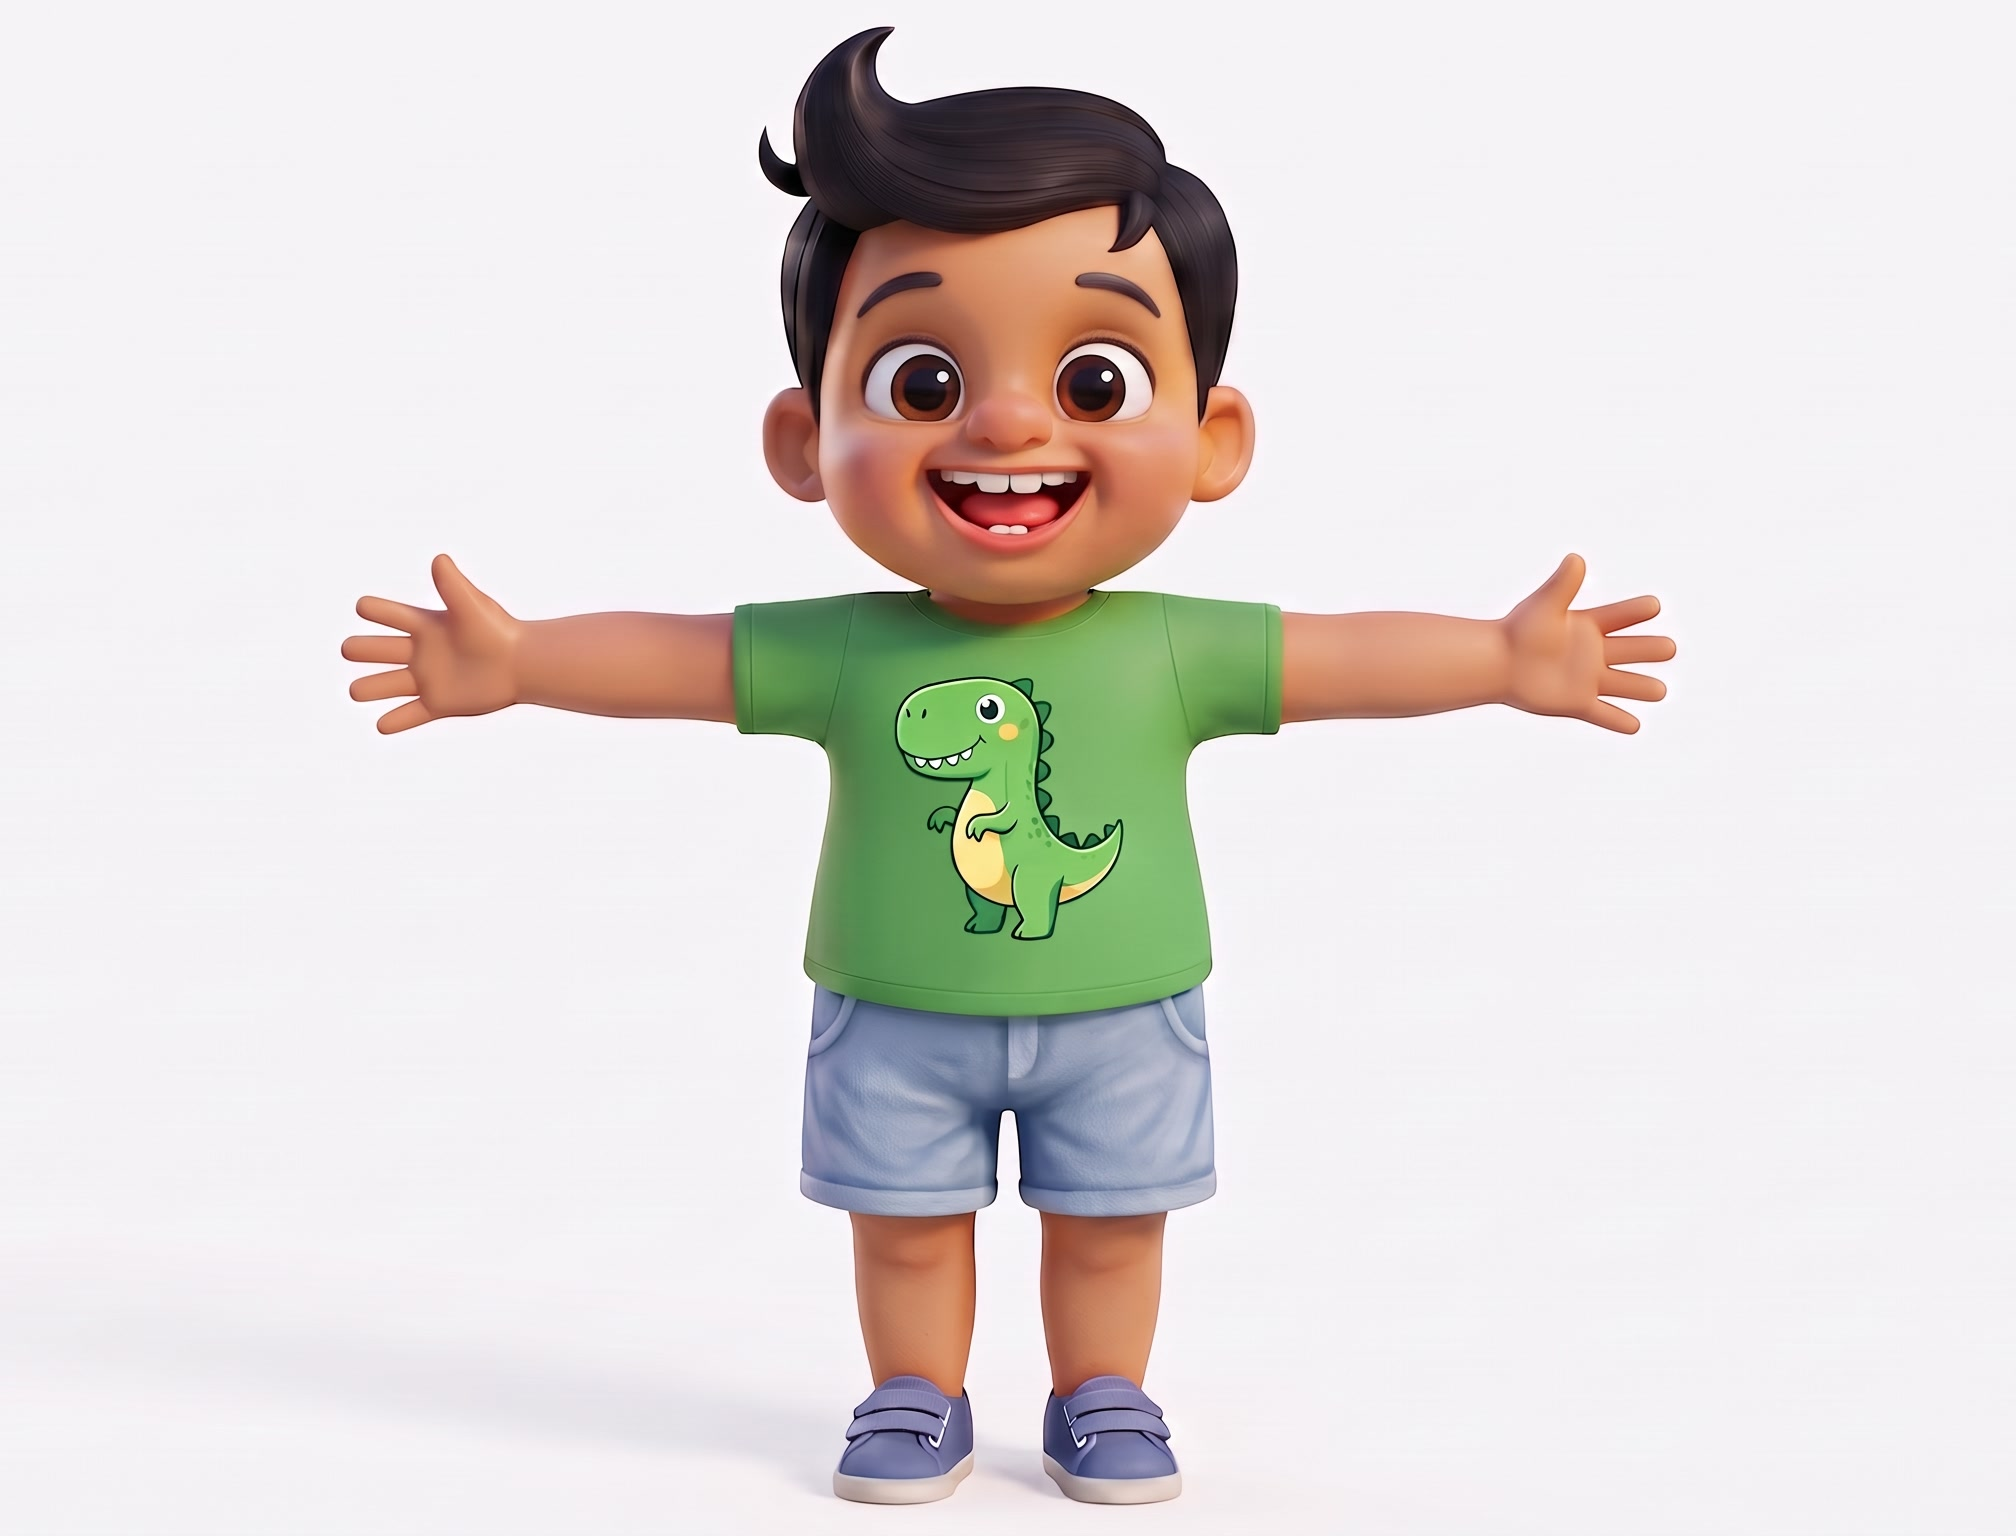
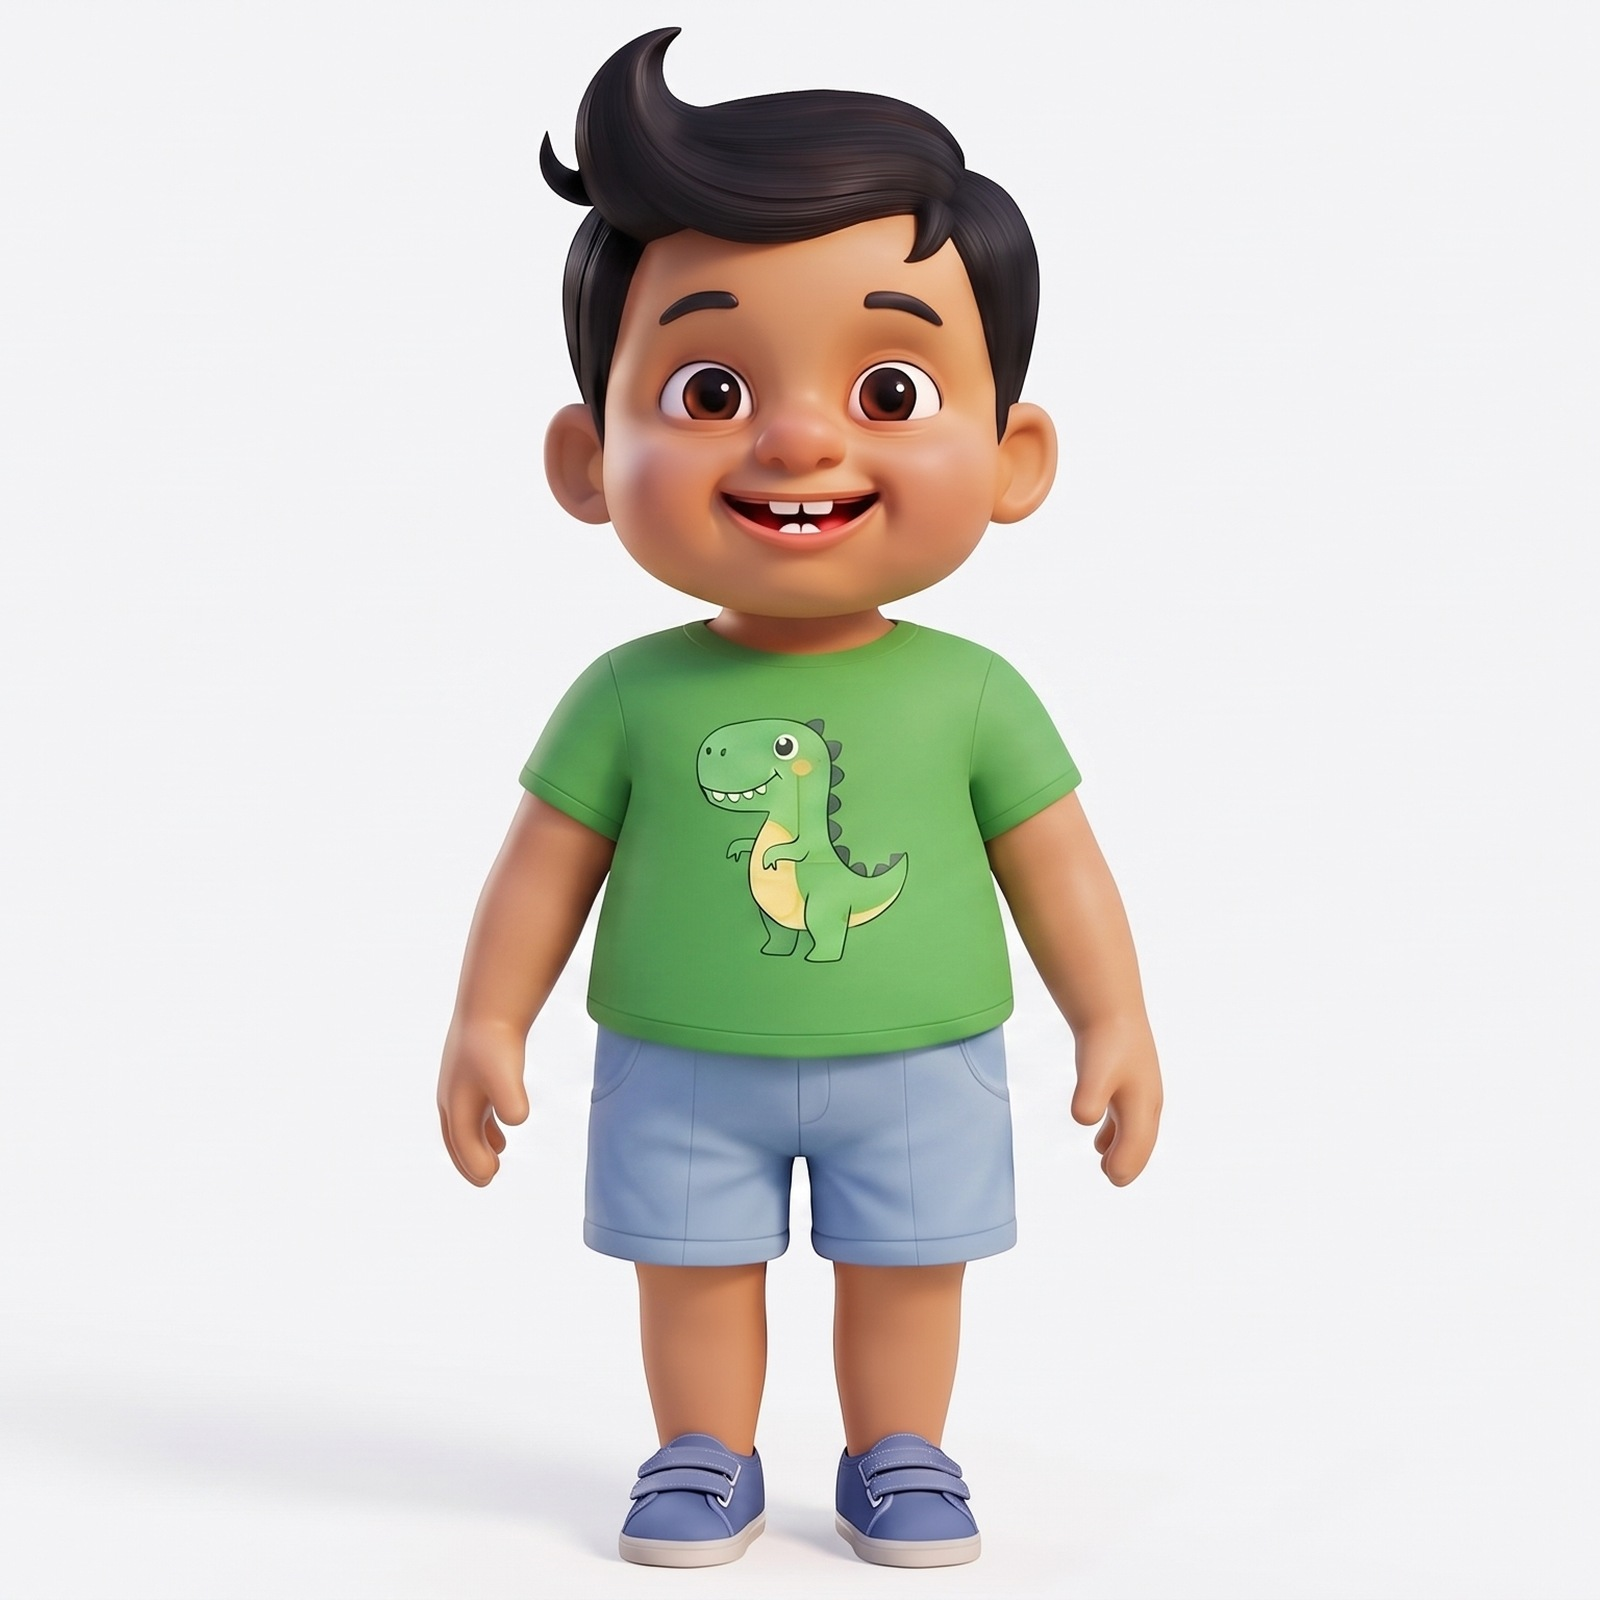
butterfly gate 3: relaxed Mintu/Minnu refs + rev 3.4 prompts; RA redo, V2b, V5a on Wan 3.0 (3/3, 18 s, est $1.80 list); old RA kept as -v2-oldrefs; queue record [skip ci]

Changed region(s): [[0.1562, 0.0, 0.8438, 1.0]]

diff --git a/queue/2026-10-02-butterfly-gate3/item-01.report.md b/queue/2026-10-02-butterfly-gate3/item-01.report.md
@@ -1,0 +1,58 @@
+# item-01 report — keep old RA, checks, render RA + V2b + V5a, sheets, commit (≤ $2.00 list)
+
+## 1. Renames (old RA, made with the old T-pose refs)
+- In `songs\a07-butterfly\out\`: `RA-seed30313-w3.mp4/.json` → `RA-seed30313-w3-v2-oldrefs.mp4/.json`.
+- In `out\_qc\`: `RA-contact.png`, `RA-f000.png`, `RA-f119.png`, `RA-f239.png`, `RA-strip.png` → the same names with `-v2-oldrefs`
+  before `.png`.
+- 7 files in total, md5 the same after the rename. No target existed beforehand.
+- **Not renamed: `_qc\RA-flap-40-100.png`.** It matches "RA-*.png without -v1-/-v2-", but it is not in the item's list (contact,
+  f000/f119/f239, strip). It is Fable's 13:13 analysis image of the **v1 tall-Priya** RA, so a `-v2-oldrefs` label would be wrong,
+  and nothing in this run writes that name. It is left as is.
+- V2b and V5a had no earlier files.
+- After the render and the sheets: the 7 `-v2-oldrefs` files and the 55 other files in `out\` (v1 RA, RB, V1a, both V2a takes, the
+  V2a splice + note, all their `_qc` images) are md5 unchanged.
+
+## 2–5. Checks
+- **Mock:** `PASS: refs+labels, loop first/last frame (prime), API-rule refusal, --max-usd cap, no secrets/URLs in sidecars`.
+- **Credentials:** `credentials present: True`. No values were printed.
+- **Gates:**
+  - `test_prompt_lint` → `PASS: prompt_lint catches 4 failure patterns, passes 2 fixed ones`;
+  - `prompt_lint --song songs\a07-butterfly` → **`LINT PASS: 33 shots, 0 fail, 0 warn`**;
+  - `test_song_cuts_reuse --plan-only` → `PASS (plan only): rowboat order unchanged; butterfly 47/48 slots, re-use + trims fit`.
+- **Dry-run** (`--only RA,V2b,V5a`): 3 rows, all `720P 16:9 audio=off`, **`estimated $1.80`**, 0 MISSING/ERROR hits.
+  - RA 8 s refs=6 (Mintu, Minnu, Leo, Priya, Amma, Mrs Meena)
+  - V2b 5 s refs=3 (Minnu, Priya, the yellow butterfly)
+  - V5a 5 s refs=8 (Mintu, Minnu, Leo, Priya and the red, yellow, blue and green butterflies)
+
+## 6. Render
+**Window: 19:45:58 → 19:53:43 UTC, 2026-10-02** (15:45:58 → 15:53:43 Toronto EDT). One at a time, `--max-usd 2.00`; the runner exited 0.
+
+| clip | status | task id | wall s | length | frames | refs | est (list) |
+|---|---|---|---|---|---|---|---|
+| RA | done | `8a01123c-c2bc-4945-9393-ddf14d25e392` | 179.7 | 8 s | 240 | 6 | $0.80 |
+| V2b | done | `dae9254c-80ea-48cb-8120-9400706340e6` | 132.2 | 5 s | 150 | 3 | $0.50 |
+| V5a | done | `de99df36-3a13-438d-bde3-bac05f1e29a0` | 149.1 | 5 s | 150 | 8 | $0.50 |
+
+- **Total: 18 s, estimated $1.80 at list price** (~$1.26 with the 30% discount); cap $2.00.
+- **Failures:** none. All three are 1280×720 @ 30 fps (frames counted by ffprobe), video only. Each sidecar prompt equals its
+  `*.raw.txt`. No URL or key appears in the sidecars or in the log. All 3 status cells are `done`.
+
+## 7. Sheets and stills
+In `C:\Projects\opencode\video_image\songs\a07-butterfly\out\_qc\`:
+- `RA-contact.png`, `V2b-contact.png`, `V5a-contact.png`: 5×2, 10 frames evenly spaced, 384 wide → 1920×432.
+- `RA-every10.png`: frames 0, 10 … 230 (24), 256 wide, 6×4 → 1536×576.
+- `V2b-every10.png`, `V5a-every10.png`: frames 0 … 140 (15), 5×3 → 1280×432.
+- 100% stills (1280×720): `RA-f000.png`, `RA-f119.png`, `RA-f239.png`; `V2b-f000.png`, `V2b-f074.png`, `V2b-f149.png`; `V5a-f000.png`,
+  `V5a-f074.png`, `V5a-f149.png`.
+- Strips (written by the runner): `RA-strip.png`, `V2b-strip.png`, `V5a-strip.png`.
+- Old RA for comparison: `..\RA-seed30313-w3-v2-oldrefs.mp4` (+ `.json`) and `RA-contact-v2-oldrefs.png`, `RA-f000/f119/f239-v2-oldrefs.png`,
+  `RA-strip-v2-oldrefs.png`.
+
+Clips: `C:\Projects\opencode\video_image\songs\a07-butterfly\out\RA-seed30313-w3.mp4`, `V2b-seed30313-w3.mp4`, `V5a-seed30313-w3.mp4` (+ `.json`).
+Log: `C:\Projects\opencode\video_image\songs\a07-butterfly\batch_gate3.log`.
+Nothing was written to `C:\Channel Contents\MinMiniKids\songs\A07-Butterfly\`. `songs\rowboat\` was not touched.
+
+## 8. Commit
+The `[skip ci]` commit containing this file. It holds `songs/a07-butterfly/` except `out/`: the new `refs/01-mintu-front.jpg` and
+`refs/02-minnu-front.jpg`, the rev 3.4 `shots/*.raw.txt`, `shots.csv`, `cutplan.json` and `batch_gate3.log`. It also holds the queue
+folder. The hash is in CC's chat reply.

diff --git a/queue/2026-10-02-butterfly-gate3/item-01.md b/queue/2026-10-02-butterfly-gate3/item-01.md
@@ -1,0 +1,21 @@
+# item-01 — keep old RA, checks, render RA + V2b + V5a, sheets, commit (≤ $2.00 list)
+
+1. In `songs\a07-butterfly\out\` rename (not copy, not delete): `RA-seed30313-w3.mp4/.json` → `RA-seed30313-w3-v2-oldrefs.mp4/.json`;
+   in `out\_qc\` every `RA-*.png` that has no `-v1-`/`-v2-` in its name (contact, f000/f119/f239, strip) → same name with
+   `-v2-oldrefs` before `.png`. (V2b and V5a have no earlier takes.)
+2. `python tests\test_wan3_mock.py` → PASS.  3. Credentials check (as in the Shorts queues) → True.
+4. **Gates:** `python tests\test_prompt_lint.py` → PASS; `python comfy\prompt_lint.py --song songs\a07-butterfly` →
+   `LINT PASS: 33 shots, 0 fail, 0 warn`; `python tests\test_song_cuts_reuse.py --plan-only` → PASS. Any failure → **blocked**.
+5. Dry-run: `python comfy\batch_runner.py --song songs\a07-butterfly --only RA,V2b,V5a --hosts api --dry-run`
+   → 3 rows, `720P 16:9 audio=off`; RA 8 s refs=6, V2b 5 s refs=3 (Minnu, Priya, the yellow butterfly), V5a 5 s refs=8;
+   "estimated $1.80"; no MISSING/ERROR. Else → **blocked**.
+6. Render:
+   ```
+   python comfy\batch_runner.py --song songs\a07-butterfly --only RA,V2b,V5a --hosts api --max-usd 2.00 --timeout-min 40 2>&1 | tee songs\a07-butterfly\batch_gate3.log
+   ```
+7. For each: `_qc\<ID>-contact.png` (5×2, 10 frames evenly spaced, 384 wide), `_qc\<ID>-every10.png` (every 10th frame, 256 wide,
+   tiled 5×3; RA: 6×4), and 100% stills of the first, middle and last frame (`_qc\<ID>-f000.png`, `-fMID`, `-fLAST` with real numbers).
+8. Commit with `[skip ci]` and push: `songs/a07-butterfly/` (everything except `out/`; includes the new `refs/01`, `refs/02`),
+   `queue/2026-10-02-butterfly-gate3`. **Do not judge the clips.**
+**item-01.report.md:** renames; checks; dry-run rows + total; run window UTC + Toronto; per clip: task id, wall s, length, frames,
+refs, est; failure lines verbatim; sheet/still paths; commit hash.

diff --git a/queue/2026-10-02-butterfly-gate3/QUEUE.md b/queue/2026-10-02-butterfly-gate3/QUEUE.md
@@ -1,0 +1,21 @@
+# CC QUEUE — 2026-10-02 "Butterfly gate 3": A07 Butterfly rev 3.4 — new relaxed Mintu/Minnu refs: RA again + V2b + V5a
+
+**Repo:** `C:\Projects\opencode\video_image` · **Executor:** CC (Sonnet is fine) · **Manager:** Fable (frame-checks after).
+Arul made relaxed-arms refs for Mintu and Minnu (the T-pose refs leaked: V2a frame 0 was Minnu's ref pose pasted in).
+`refs\01-mintu-front.jpg` and `refs\02-minnu-front.jpg` are replaced (song folder + repo; old ones in the song folder's
+`refs\_old\`). Rev 3.4 prompt review (Row Row + gate learnings): new Mintu/Minnu lines; no camera move that can drop the kids out
+of frame (I2, V1d, V3a, V6c, V6d); "framing never changes" on every still shot; background kids "clearly visible"; mothers on
+the bench from frame 0 in I1. Fable's checks: LINT PASS 33/0/0, plan test PASS, checklist 33/33.
+This gate checks the new refs before the 29-clip batch: **RA (8 s, 4 kids + mothers), V2b (5 s, Minnu + Priya close),
+V5a (5 s, all 4 kids + 4 butterflies = 8 refs) = 18 s, $1.80 list.** RA status cell cleared for the redo.
+
+## Hard limits
+- **API spend ≤ $2.00 at list price.** Only `RA,V2b,V5a`. No pod, no GPU, no upscale. A failure is reported, not re-run.
+- Never print, echo or log `.env` values, the API key, the workspace id or any video URL.
+- Never touch RunPod. Never restore a `shots.csv`. Commits carry `[skip ci]`. Never commit `.env`, `logs.txt`, `nil`.
+- Do **not** write anything into `C:\Channel Contents\MinMiniKids\songs\A07-Butterfly\`. Do not touch `songs\rowboat\`.
+- Never delete or overwrite a take or a review image: rename first (step 1).
+
+## Protocol (markers in `queue\2026-10-02-butterfly-gate3\`)
+As before: LOG.md start/done lines, `item-N.report.md`, `item-N.done`, `item-N.blocked` + stop.
+After item-01: `QUEUE END <time> est $<x>`, tell Arul "Butterfly gate 3 done — ask Fable to review queue\2026-10-02-butterfly-gate3".

diff --git a/queue/2026-10-02-butterfly-gate3/LOG.md b/queue/2026-10-02-butterfly-gate3/LOG.md
@@ -1,0 +1,5 @@
+# LOG — queue 2026-10-02-butterfly-gate3 (append-only)
+[2026-10-02] Fable: queue written; rev 3.4 (relaxed Mintu/Minnu refs + prompt review); RA + V2b + V5a = 18 s, cap $2.00; lint PASS 33/0/0; plan test PASS; checklist 33/33
+[2026-10-02 15:45] item-01 start
+[2026-10-02 15:55] item-01 done: old RA renamed -v2-oldrefs (7 files, md5 kept; RA-flap left as is), gates PASS, RA/V2b/V5a rendered (18 s), window 19:45:58-19:53:43 UTC; est $1.80 list; contact + every10 + stills
+QUEUE END 2026-10-02 15:55 est $1.80
